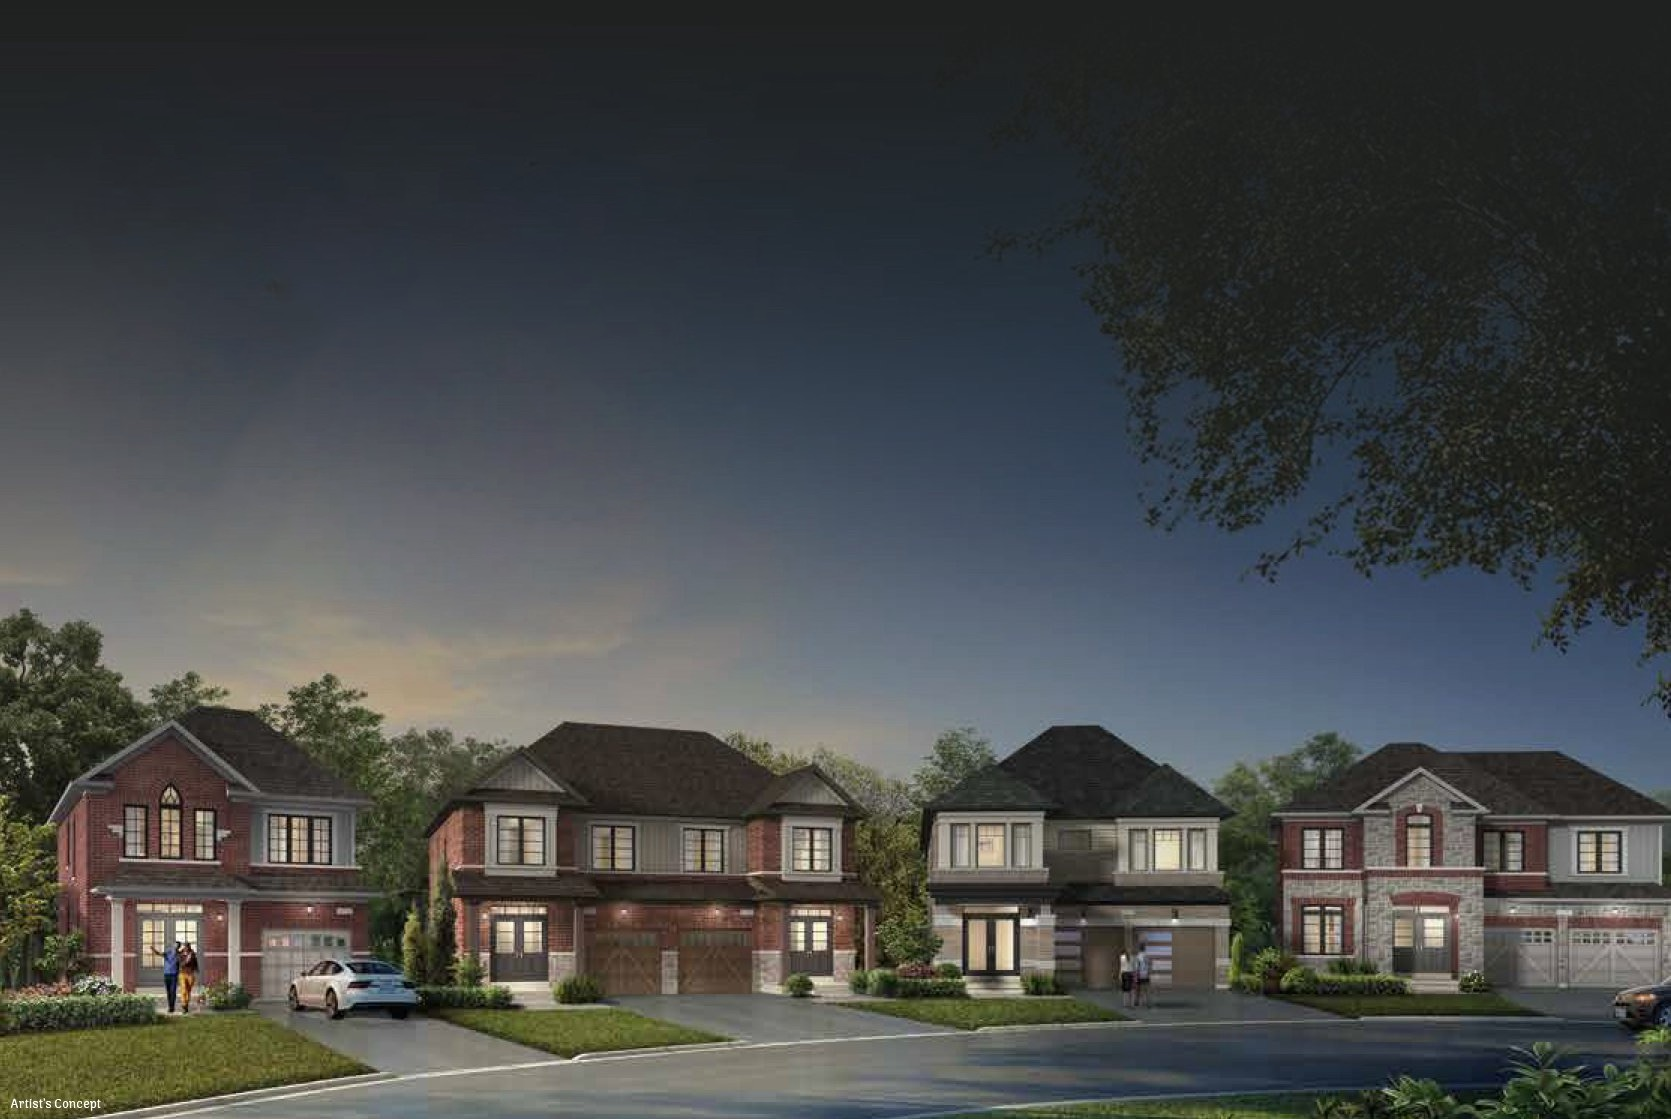
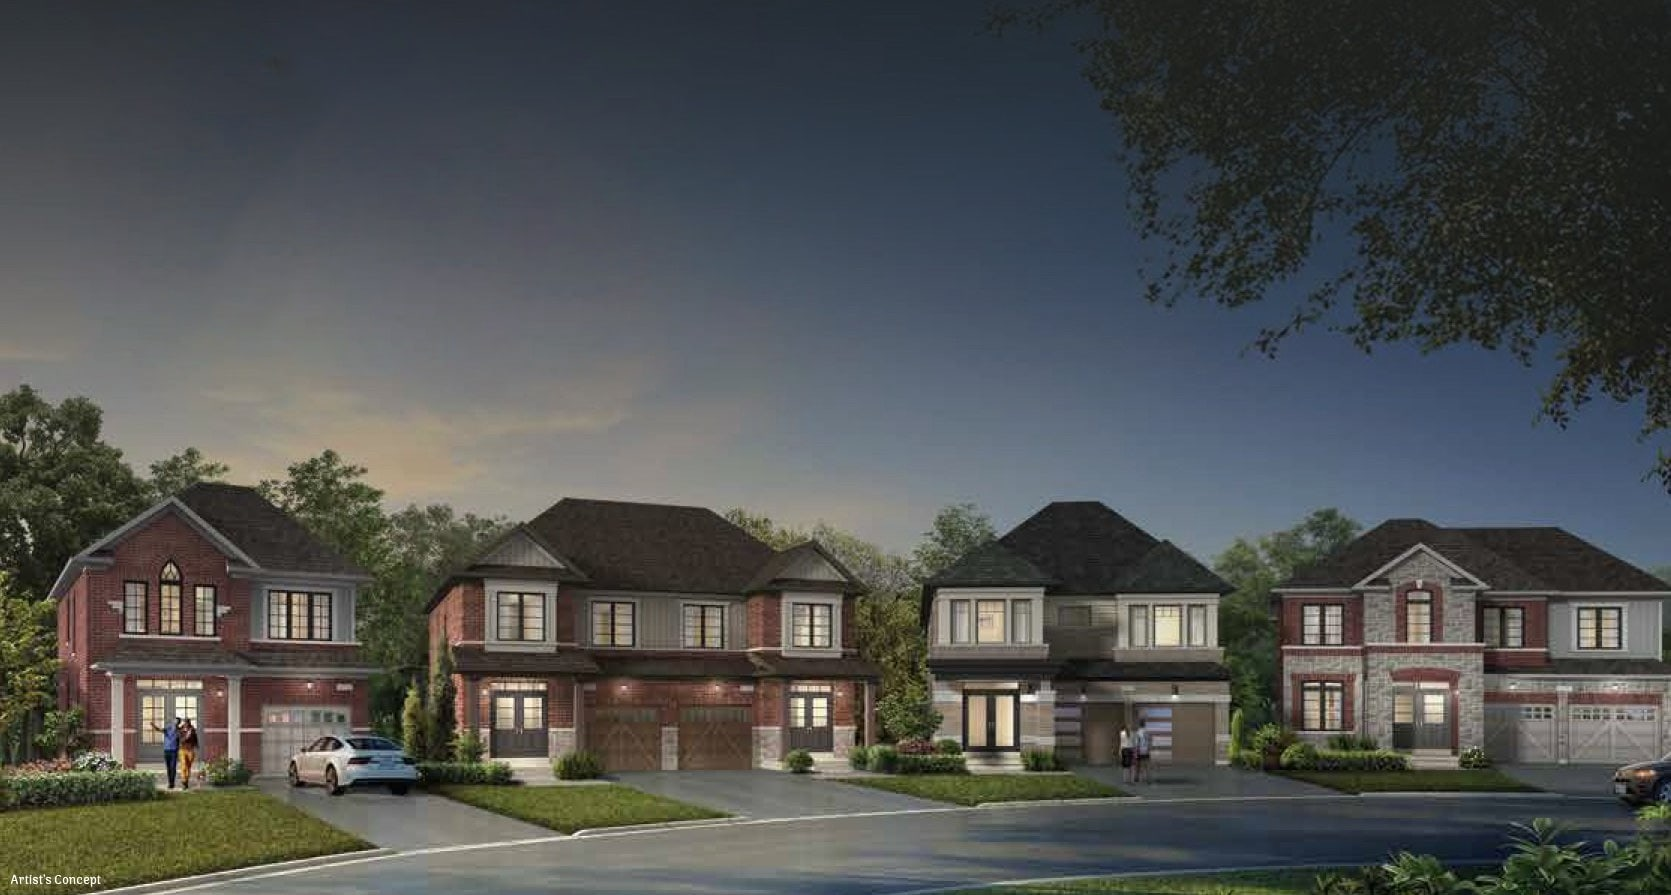
Crop the hero streetscape and remove placeholder legal identity.
Bring the homes into frame and drop unfinished publisher, registrant, and launch-blocker copy from the public footer.

diff --git a/components/Footer.tsx b/components/Footer.tsx
@@ -1,65 +1,18 @@
-import {
-  disclaimer,
-  hasRealEmail,
-  hasRealPhone,
-  legalIdentityComplete,
-  publisher,
-} from "@/lib/site";
-import { ContactLink } from "@/components/ContactLink";
+import { disclaimer } from "@/lib/site";
 
 export function Footer() {
   const year = new Date().getFullYear();
   return (
     <footer className="border-t border-sand bg-ink pb-24 text-cream md:pb-10">
-      <div className="section-shell grid gap-10 py-14 md:grid-cols-3">
+      <div className="section-shell grid gap-10 py-14 md:grid-cols-2">
         <div>
           <p className="font-display text-2xl text-paper">
             Windrose at Caledon Trails
           </p>
-          <p className="mt-3 text-sm leading-6 text-sand">
+          <p className="mt-3 max-w-md text-sm leading-6 text-sand">
             Independent project information and registration. Not the official
             website of Laurier Homes, Yorkwood Homes or Caledon Trails.
           </p>
-        </div>
-        <div>
-          <h2 className="text-sm font-semibold tracking-wide text-paper uppercase">
-            Legal identity
-          </h2>
-          <p className="mt-3 text-sm leading-6">
-            Publisher: {publisher.legalName}
-          </p>
-          <p className="text-sm leading-6">Registrant: {publisher.registrant}</p>
-          <p className="text-sm leading-6">{publisher.address}</p>
-          {hasRealPhone ? (
-            <p className="mt-2 text-sm">
-              Phone:{" "}
-              <ContactLink type="phone" value={publisher.phone}>
-                {publisher.phone}
-              </ContactLink>
-            </p>
-          ) : (
-            <p className="mt-2 text-sm text-gold">
-              Public phone: [INSERT] — launch blocker
-            </p>
-          )}
-          {hasRealEmail ? (
-            <p className="text-sm">
-              Email:{" "}
-              <ContactLink type="email" value={publisher.email}>
-                {publisher.email}
-              </ContactLink>
-            </p>
-          ) : (
-            <p className="text-sm text-gold">
-              Public email: [INSERT] — launch blocker
-            </p>
-          )}
-          {!legalIdentityComplete ? (
-            <p className="mt-3 text-sm text-gold">
-              Legal publisher name is a launch blocker under Ontario advertising
-              rules and must be inserted before public launch.
-            </p>
-          ) : null}
         </div>
         <div>
           <h2 className="text-sm font-semibold tracking-wide text-paper uppercase">
@@ -91,12 +44,7 @@ export function Footer() {
       </div>
       <div className="section-shell border-t border-white/10 py-8 text-sm leading-7 text-sand">
         <p>{disclaimer}</p>
-        <p className="mt-4">
-          This disclaimer is not legal advice. Have the publisher’s compliance
-          officer and Canadian legal/privacy counsel review the site before
-          launch.
-        </p>
-        <p className="mt-4">© {year} {publisher.legalName}. All rights reserved.</p>
+        <p className="mt-4">© {year} Windrose at Caledon Trails.</p>
       </div>
     </footer>
   );

diff --git a/components/Landing.tsx b/components/Landing.tsx
@@ -11,7 +11,10 @@ import {
 
 export function Hero() {
   return (
-    <section className="relative isolate overflow-hidden" aria-labelledby="hero-heading">
+    <section
+      className="relative isolate flex min-h-[32rem] items-center overflow-hidden md:min-h-[38rem] lg:min-h-[min(42rem,calc(100dvh-4.5rem))]"
+      aria-labelledby="hero-heading"
+    >
       <div className="absolute inset-0 -z-10">
         <Image
           src="/images/hero-windrose-streetscape.jpg"
@@ -19,28 +22,28 @@ export function Hero() {
           fill
           priority
           sizes="100vw"
-          className="object-cover object-[center_62%]"
+          className="object-cover object-[center_bottom]"
         />
-        <div className="absolute inset-0 bg-[linear-gradient(90deg,rgba(10,16,24,0.78)_0%,rgba(10,16,24,0.48)_50%,rgba(10,16,24,0.22)_100%)]" />
+        <div className="absolute inset-0 bg-[linear-gradient(90deg,rgba(10,16,24,0.72)_0%,rgba(10,16,24,0.42)_48%,rgba(10,16,24,0.18)_100%)]" />
       </div>
-      <div className="section-shell grid items-center gap-6 py-8 md:grid-cols-[minmax(0,1fr)_minmax(18.5rem,22rem)] md:py-10 lg:gap-10">
+      <div className="section-shell grid w-full items-center gap-8 py-12 md:grid-cols-[minmax(0,1fr)_minmax(19rem,23rem)] md:py-16 lg:gap-12">
         <div className="text-paper">
-          <p className="text-xs font-semibold tracking-[0.18em] uppercase text-sand">
+          <p className="text-xs font-semibold tracking-[0.2em] uppercase text-sand">
             Freehold Towns, Semis &amp; Singles
           </p>
           <h1
             id="hero-heading"
-            className="mt-2 font-display text-3xl leading-[1.12] md:text-5xl"
+            className="mt-3 font-display text-4xl leading-[1.1] md:text-[3.25rem]"
           >
             Windrose at Caledon Trails
           </h1>
-          <p className="mt-3 font-display text-xl tracking-tight text-cream md:text-2xl">
+          <p className="mt-4 font-display text-2xl tracking-tight text-cream">
             Starting from the high $600s*
           </p>
-          <p className="mt-3 max-w-lg text-base leading-7 text-cream">
+          <p className="mt-4 max-w-lg text-base leading-7 text-cream md:text-lg">
             New freehold homes at Mayfield Drive and McLaughlin Road, Caledon.
           </p>
-          <p className="mt-3 max-w-lg text-xs leading-5 text-sand">
+          <p className="mt-5 max-w-lg text-xs leading-5 text-sand">
             *Prices are subject to change without notice. Artist’s concept.
             Independent informational website — not the official website of the
             builders or the project.

diff --git a/app/terms/page.tsx b/app/terms/page.tsx
@@ -1,7 +1,7 @@
 import type { Metadata } from "next";
 import { Header, MobileStickyCta } from "@/components/Header";
 import { Footer } from "@/components/Footer";
-import { LAST_VERIFIED, disclaimer, publisher } from "@/lib/site";
+import { LAST_VERIFIED, disclaimer } from "@/lib/site";
 
 export const metadata: Metadata = {
   title: "Terms and disclaimer",
@@ -23,26 +23,16 @@ export default function TermsPage() {
           <p className="mt-4 text-sm text-ink-soft">Last updated: {LAST_VERIFIED}.</p>
           <div className="prose-calm mt-10 space-y-6 text-[1.05rem] leading-8">
             <p>
-              This website is published by {publisher.legalName} as an independent
-              information and registration page. It is not affiliated with, or
+              This website is an independent information and registration page
+              for Windrose at Caledon Trails. It is not affiliated with, or
               authorized by, the builders unless a written authorization is later
               added to this page.
             </p>
             <p>{disclaimer}</p>
             <p>
-              Project facts are verified against official community, builder and
-              government sources and dated on the landing page. Unconfirmed
-              commercial details are marked to be announced. Conceptual photographs
-              are not official renderings.
-            </p>
-            <p>
-              If this page advertises real-estate services of an Ontario
-              registrant, the brokerage and registrant must be identified before
-              launch, as required by current RECO/TRESA advertising rules.
-            </p>
-            <p>
-              These terms are not legal advice. Have Canadian counsel review them
-              before the site is advertised to the public.
+              Project facts are dated on the landing page. Prices, incentives,
+              specifications and availability are subject to change without notice.
+              Renderings are artists’ concepts.
             </p>
           </div>
         </article>

diff --git a/lib/jsonld.ts b/lib/jsonld.ts
@@ -6,7 +6,6 @@ import {
   faqs,
   introAnswer,
   metadataContent,
-  publisher,
   sources,
 } from "@/lib/site";
 
@@ -22,16 +21,10 @@ export function jsonLdGraph() {
       {
         "@type": "Organization",
         "@id": publisherId,
-        name: publisher.legalName,
+        name: PROJECT_NAME,
         url: SITE_URL,
-        ...(publisher.email && !publisher.email.includes("[")
-          ? { email: publisher.email }
-          : {}),
-        ...(publisher.phone && !publisher.phone.includes("[")
-          ? { telephone: publisher.phone }
-          : {}),
         description:
-          "Independent publisher of project information for Windrose at Caledon Trails. Not the official builder website.",
+          "Independent information website for Windrose at Caledon Trails. Not the official builder website.",
       },
       {
         "@type": "WebSite",
@@ -60,7 +53,7 @@ export function jsonLdGraph() {
           caption:
             "Artist’s concept of homes at Windrose at Caledon Trails. Homes may not be exactly as shown.",
           width: 1671,
-          height: 1119,
+          height: 895,
         },
         speakable: {
           "@type": "SpeakableSpecification",

diff --git a/app/privacy-policy/page.tsx b/app/privacy-policy/page.tsx
@@ -1,7 +1,7 @@
 import type { Metadata } from "next";
 import { Header, MobileStickyCta } from "@/components/Header";
 import { Footer } from "@/components/Footer";
-import { LAST_VERIFIED, SITE_URL, publisher } from "@/lib/site";
+import { LAST_VERIFIED, SITE_URL } from "@/lib/site";
 
 export const metadata: Metadata = {
   title: "Privacy policy",
@@ -32,9 +32,9 @@ export default function PrivacyPolicyPage() {
             </p>
             <h2 className="font-display text-2xl text-ink">Who publishes this site</h2>
             <p>
-              Publisher: {publisher.legalName}. Address: {publisher.address}.
-              Contact details must be completed before public launch. Until then,
-              treat missing identity fields as launch blockers.
+              This is an independent information and registration website for
+              Windrose at Caledon Trails. It is not the official website of the
+              builders or the project.
             </p>
             <h2 className="font-display text-2xl text-ink">What we collect and why</h2>
             <p>
